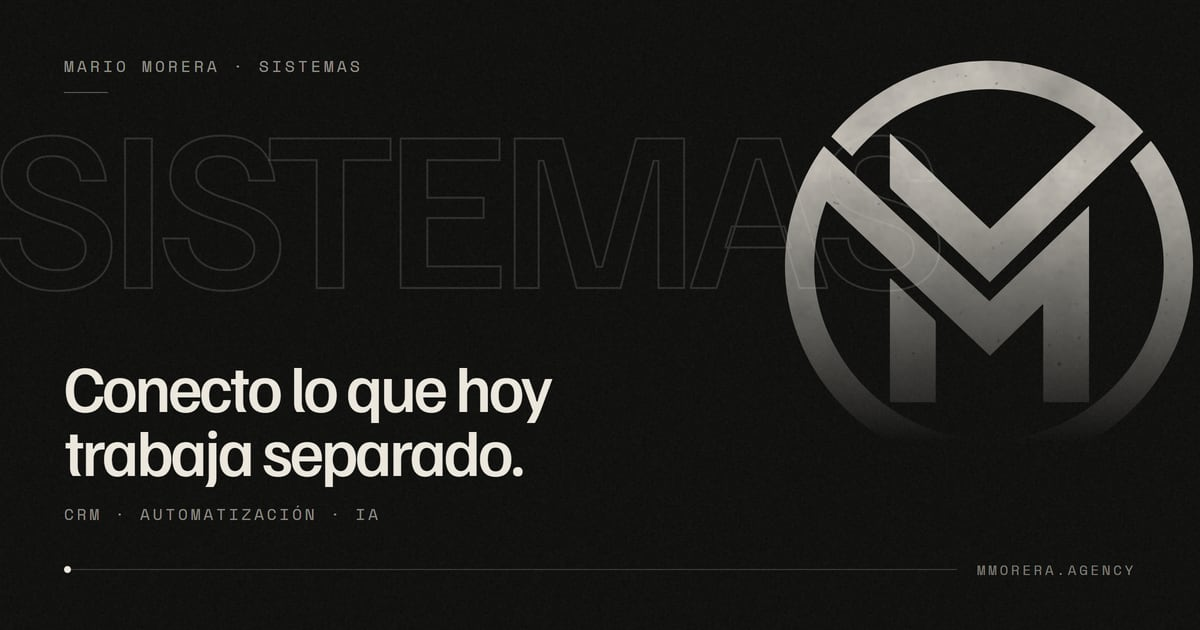
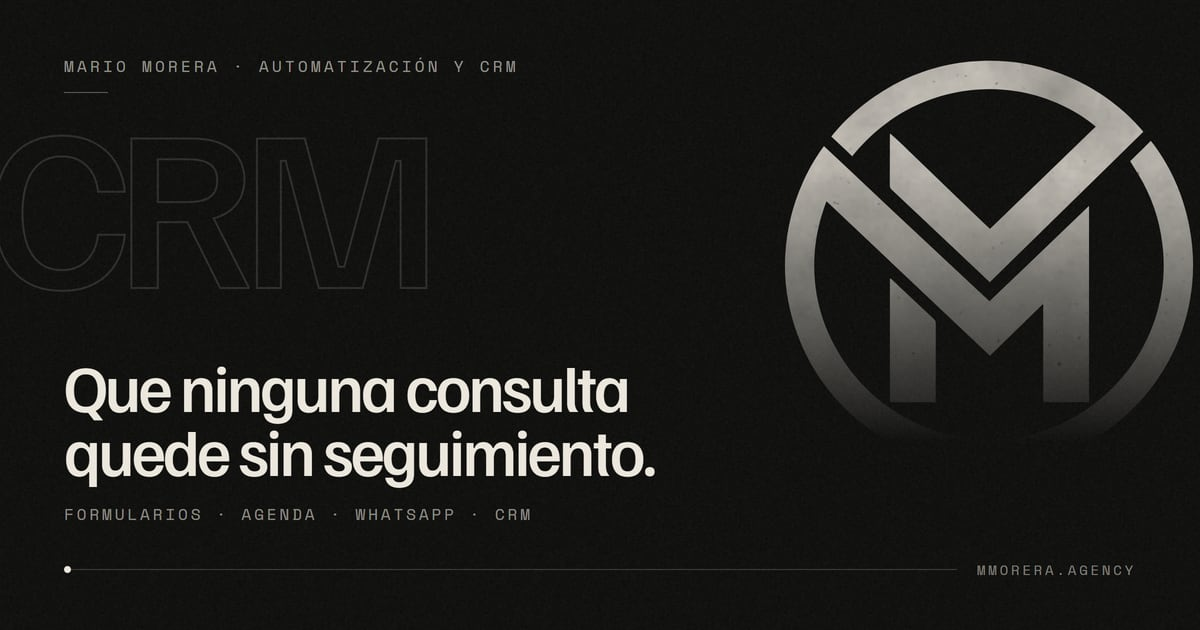
feat(triada): integra 3, datos de las páginas de servicio y limpieza
- Integra T35 (e2e 51/51), T36 (componentes retirados) y T26 (plantilla).
- src/data/servicePages.ts: SERVICE_PAGES.sistemas y .estudio con los textos
  del brief T27, con su test (casos existentes, sin TODO ni textos vacíos).
- paginas.ts: títulos, descripciones y portadas de /sistemas («Automatización
  y CRM») y /estudio («Webs y landings»); portadas regeneradas.
- Fuera WORKFLOW_STAGES y el e2e de Safari de la película retirada.

diff --git a/web/src/data/servicePages.ts b/web/src/data/servicePages.ts
@@ -1,0 +1,126 @@
+import type { LocalizedText } from "@/types/site";
+import type { ServicePageContent } from "@/types/servicePage";
+
+const t = (es: string, en: string): LocalizedText => ({ es, en });
+
+/**
+ * Textos de las páginas de servicio (brief docs/triada/briefs/T27-servicios.md).
+ * Secuencia común: qué resuelve → para quién → cómo funciona → prueba →
+ * cómo se contrata → hablemos. Lo interactivo (films) entra como slot.
+ */
+
+/** Los mismos 3 pasos del tramo «Cómo trabajo» del home (brief T20 §4). */
+const HIRING: ServicePageContent["hiring"] = {
+  title: t("Cómo trabajamos", "How we work"),
+  steps: [
+    {
+      title: t("Diagnóstico", "Diagnosis"),
+      body: t(
+        "Entiendo cómo trabajas hoy y dónde se pierde tiempo. Acordamos qué conviene construir primero, y qué no.",
+        "I learn how you work today and where time gets lost. We agree on what to build first, and what not to."
+      ),
+    },
+    {
+      title: t("Construcción", "Build"),
+      body: t(
+        "Diseño, programo y conecto las piezas. Ves avances reales durante el trabajo.",
+        "I design, build and connect the pieces. You see real progress along the way."
+      ),
+    },
+    {
+      title: t("Traspaso y mantenimiento", "Handover and maintenance"),
+      body: t(
+        "Te dejo el sistema funcionando, con las cuentas a tu nombre. Si quieres, sigo a cargo del mantenimiento.",
+        "I hand over a working system, with accounts in your name. If you want, I stay on for maintenance."
+      ),
+    },
+  ],
+  price: t("El alcance y el precio se definen después del diagnóstico.", "Scope and price are set after the diagnosis."),
+};
+
+const AUDIENCE_TITLE = t("Para quién es", "Who it's for");
+
+export const SERVICE_PAGES = {
+  /** /sistemas → «Automatización y CRM». El film de apertura trae su propio título. */
+  sistemas: {
+    hero: {
+      eyebrow: t("Automatización y CRM", "Automation & CRM"),
+      title: t("Que ninguna consulta quede sin seguimiento.", "So no enquiry goes without follow-up."),
+      body: t(
+        "Conecto tus formularios, tu agenda, WhatsApp y tu CRM para que cada consulta entre ordenada, le llegue a quien corresponde y el seguimiento salga solo.",
+        "I connect your forms, calendar, WhatsApp and CRM so every enquiry comes in organized, reaches the right person and the follow-up goes out on its own."
+      ),
+      cta: { label: t("Hablemos de tu proceso", "Let's talk about your process") },
+    },
+    audience: {
+      title: AUDIENCE_TITLE,
+      for: t(
+        "Negocios que reciben consultas por varios canales y hoy las ordenan a mano.",
+        "Businesses that get enquiries across several channels and sort them by hand today."
+      ),
+      notFor: t(
+        "Si recibes pocas consultas por semana y las respondes sin problema, todavía no lo necesitas.",
+        "If you get a few enquiries a week and answer them easily, you don't need this yet."
+      ),
+    },
+    tools: t(
+      "Con n8n, Make o GoHighLevel según tu proceso, o una herramienta a medida si el flujo es liviano.",
+      "With n8n, Make or GoHighLevel depending on your process, or a custom tool when the flow is light."
+    ),
+    proof: {
+      title: t("Sistemas que ya construí", "Systems I've already built"),
+      slugs: ["rangel-oviedo-group", "lb-elite-wash-detail", "new-brothers-barberia"],
+    },
+    hiring: HIRING,
+    closing: {
+      title: t(
+        "El sistema correcto se nota porque el trabajo deja de romperse entre herramientas.",
+        "The right system shows when work stops breaking between tools."
+      ),
+      cta: { label: t("Hablemos de tu caso", "Let's talk about your case") },
+    },
+  },
+  /** /estudio → «Webs y landings». El slot muestra films de casos de web. */
+  estudio: {
+    hero: {
+      eyebrow: t("Webs y landings", "Websites & landing pages"),
+      title: t("Una web que explica lo que haces y hace que te escriban.", "A website that explains what you do and gets people to reach out."),
+      body: t(
+        "Diseño y programo sitios y landings a medida: claros, rápidos en el teléfono, en dos idiomas si hace falta y fáciles de actualizar. Lo diseño y lo programo yo.",
+        "I design and build custom websites and landing pages: clear, fast on the phone, bilingual when needed and easy to update. I design it and I build it."
+      ),
+      cta: { label: t("Hablemos de tu web", "Let's talk about your website") },
+    },
+    audience: {
+      title: AUDIENCE_TITLE,
+      for: t(
+        "Negocios que reciben consultas y pierden ventas porque su web no explica lo que hacen.",
+        "Businesses that get enquiries but lose sales because their site doesn't explain what they do."
+      ),
+      notFor: t(
+        "Si tu web ya funciona y solo quieres cambiar textos, no hace falta rehacerla.",
+        "If your site already works and you only want to change the copy, there's no need to rebuild it."
+      ),
+    },
+    tools: t(
+      "Con Next.js, TypeScript y Tailwind, y un CMS cuando necesitas actualizar el contenido.",
+      "With Next.js, TypeScript and Tailwind, plus a CMS when you need to update content."
+    ),
+    howItWorks: {
+      title: t("Cada caso, contado como un film", "Each case, told as a film"),
+      body: t(
+        "El sitio real de cada cliente y cómo se resolvió, en poco más de un minuto.",
+        "Each client's live site and how it was solved, in just over a minute."
+      ),
+    },
+    proof: {
+      title: t("Webs que ya construí", "Websites I've already built"),
+      slugs: ["lb-elite-wash-detail", "mr-studio-tattoo", "truckers-choice", "fenix-medical-center"],
+    },
+    hiring: HIRING,
+    closing: {
+      title: t("¿Tu web explica bien lo que haces?", "Does your website explain what you do?"),
+      cta: { label: t("Hablemos de tu web", "Let's talk about your website") },
+    },
+  },
+} satisfies Record<"sistemas" | "estudio", ServicePageContent>;

diff --git a/web/src/data/seo/paginas.ts b/web/src/data/seo/paginas.ts
@@ -58,19 +58,19 @@ export const PAGINAS_SEO: Record<PaginaSeo, PaginaSeoData> = {
   },
   sistemas: {
     path: "/sistemas",
-    title: { es: "CRM, automatización e IA para negocios", en: "CRM, automation and AI for businesses" },
+    title: { es: "Automatización y CRM para negocios", en: "Automation & CRM for businesses" },
     description: {
-      es: "CRM, automatización de procesos e IA aplicada dentro de un flujo que tu equipo puede ver y usar: captación, seguimiento y atención, conectados.",
-      en: "CRM, process automation and applied AI inside a flow your team can see and use: lead capture, follow-up and support, connected.",
+      es: "Conecto formularios, agenda, WhatsApp y CRM para que cada consulta entre ordenada, le llegue a quien corresponde y el seguimiento salga solo.",
+      en: "I connect forms, calendar, WhatsApp and CRM so every enquiry comes in organized, reaches the right person and the follow-up goes out on its own.",
     },
     portada: "sistemas",
   },
   estudio: {
     path: "/estudio",
-    title: { es: "Diseño web, motion y dirección de arte", en: "Web design, motion and art direction" },
+    title: { es: "Webs y landings a medida", en: "Custom websites & landing pages" },
     description: {
-      es: "Dirección de arte, diseño web, motion y desarrollo frontend: experiencias donde la forma, la interacción y el código responden a la misma intención.",
-      en: "Art direction, web design, motion and frontend development: experiences where form, interaction and code answer to the same intent.",
+      es: "Diseño y programo sitios y landings a medida: claros, rápidos en el teléfono, en dos idiomas si hace falta y fáciles de actualizar.",
+      en: "I design and build custom websites and landing pages: clear, fast on the phone, bilingual when needed and easy to update.",
     },
     portada: "estudio",
   },
@@ -111,16 +111,16 @@ export const PORTADAS_OG: Record<PaginaSeoData["portada"], PortadaOg> = {
     servicios: { es: "Casos · Demos · Implementaciones", en: "Cases · Demos · Implementations" },
   },
   sistemas: {
-    eco: { es: "Sistemas", en: "Systems" },
-    rotulo: { es: "Mario Morera · Sistemas", en: "Mario Morera · Systems" },
-    titular: { es: "Conecto lo que hoy trabaja separado.", en: "I connect what works separately today." },
-    servicios: { es: "CRM · Automatización · IA", en: "CRM · Automation · AI" },
+    eco: { es: "CRM", en: "CRM" },
+    rotulo: { es: "Mario Morera · Automatización y CRM", en: "Mario Morera · Automation & CRM" },
+    titular: { es: "Que ninguna consulta quede sin seguimiento.", en: "So no enquiry goes without follow-up." },
+    servicios: { es: "Formularios · Agenda · WhatsApp · CRM", en: "Forms · Calendar · WhatsApp · CRM" },
   },
   estudio: {
-    eco: { es: "Estudio", en: "Studio" },
-    rotulo: { es: "Mario Morera · Estudio", en: "Mario Morera · Studio" },
-    titular: { es: "La tecnología también puede tener pulso.", en: "Technology can have a pulse, too." },
-    servicios: { es: "Diseño · Motion · Código", en: "Design · Motion · Code" },
+    eco: { es: "Webs", en: "Websites" },
+    rotulo: { es: "Mario Morera · Webs y landings", en: "Mario Morera · Websites & landing pages" },
+    titular: { es: "Una web que explica lo que haces y hace que te escriban.", en: "A website that explains what you do and gets people to reach out." },
+    servicios: { es: "Diseño · Desarrollo · Dos idiomas", en: "Design · Development · Bilingual" },
   },
   hablemos: {
     eco: { es: "Hablemos", en: "Let’s talk" },

diff --git a/web/src/data/solutionsData.ts b/web/src/data/solutionsData.ts
@@ -248,41 +248,3 @@ export const DECISION_TOPICS: DecisionTopic[] = [
   },
 ];
 
-export const WORKFLOW_STAGES = [
-  {
-    step: "01",
-    title: t("Diagnóstico & Criterio", "Diagnosis & Strategic Alignment"),
-    description: t(
-      "Analizamos tu flujo actual, detectamos cuellos de botella y definimos el alcance exacto sin humo.",
-      "We analyze your current flow, isolate bottlenecks, and define the exact scope without hype."
-    ),
-    badge: t("Sin Compromiso", "No Commitment"),
-  },
-  {
-    step: "02",
-    title: t("Dirección de Arte & Arquitectura", "Art Direction & Architecture"),
-    description: t(
-      "Estructura visual, experiencia de usuario y arquitectura técnica creadas a medida de tu negocio.",
-      "Tailored visual hierarchy, user journey, and technical architecture designed for conversions."
-    ),
-    badge: t("Diseño a Medida", "Custom Design"),
-  },
-  {
-    step: "03",
-    title: t("Construcción en Producción (Next.js)", "Production Build (Next.js)"),
-    description: t(
-      "Desarrollo en Next.js 16 y automatizaciones conectadas en sprints ágiles de 1 a 3 semanas.",
-      "Next.js 16 build and connected automations shipped in agile 1-3 week sprints."
-    ),
-    badge: t("Velocidad Extrema", "Extreme Speed"),
-  },
-  {
-    step: "04",
-    title: t("Despliegue & Operación Continua", "Deployment & Active Operations"),
-    description: t(
-      "Despliegue en producción con monitoreo en vivo y comunicación directa por WhatsApp sin intermediarios.",
-      "Live production launch with real-time telemetry and direct WhatsApp communication."
-    ),
-    badge: t("Acompañamiento Real", "Real Support"),
-  },
-];

diff --git a/web/src/data/servicePages.test.ts b/web/src/data/servicePages.test.ts
@@ -1,0 +1,17 @@
+import { describe, it } from "node:test";
+import assert from "node:assert/strict";
+import { SERVICE_PAGES } from "./servicePages";
+import { getProjectCase } from "./projectCases";
+
+describe("páginas de servicio", () => {
+  it("cada caso de prueba existe y cada texto tiene sus dos idiomas", () => {
+    for (const [page, content] of Object.entries(SERVICE_PAGES)) {
+      for (const slug of content.proof?.slugs ?? []) {
+        assert.ok(getProjectCase(slug), `${page} apunta a un caso inexistente: ${slug}`);
+      }
+      const texts = JSON.stringify(content);
+      assert.doesNotMatch(texts, /"es":""|"en":""/, `${page} tiene un texto vacío`);
+      assert.doesNotMatch(texts, /TODO/, `${page} conserva un TODO`);
+    }
+  });
+});

diff --git a/web/playwright.config.ts b/web/playwright.config.ts
@@ -20,14 +20,8 @@ export default defineConfig({
   projects: [
     {
       name: "chromium",
-      testIgnore: ["**/._*", "**/*.webkit.spec.ts"],
-      use: { ...devices["Desktop Chrome"] },
-    },
-    {
-      name: "webkit-mobile-film",
-      testMatch: "**/*.webkit.spec.ts",
       testIgnore: "**/._*",
-      use: { ...devices["iPhone 13"] },
+      use: { ...devices["Desktop Chrome"] },
     },
   ],
   webServer: externalBaseUrl

diff --git a/web/docs/triada/TABLERO.md b/web/docs/triada/TABLERO.md
@@ -85,8 +85,8 @@ Calidad común: ES y EN, 390 px sin desborde, teclado, `prefers-reduced-motion` 
 
 | ID | Tarea | Dueño | Apoyo | Archivos permitidos | Listo cuando | Depende | Estado |
 |---|---|---|---|---|---|---|---|
-| **T26** | **Plantilla de página de servicio.** Secciones: qué resuelve, para quién (y para quién no), cómo funciona (momento o film), prueba (casos con «Pruébalo»), cómo se contrata (diagnóstico → instalación → mantenimiento) y contacto | **Codex** | Claude define los datos | `src/components/service/ServicePage.tsx` (nuevo) y su test. Los datos van en `src/data/servicePages.ts` (Claude) | La usan T07, T08 y T27. Sin precios hasta D2. Cada sección se puede omitir por datos | T20 | para revisar |
-| **T27** | **`/sistemas` como «Automatización y CRM» y `/estudio` como «Webs y landings»**, con la plantilla. En `/sistemas`, el film de apertura se acorta. En `/estudio` sale la órbita y el estudio de tokens pasa al Lab | **Claude**, textos → **Codex** | Gemini, la crítica cruzada | `SystemsExperience.tsx`, `StudioExperience.tsx`, `films/ScrollFilm.tsx` (solo el largo del tramo), `app/sistemas/**`, `app/estudio/**` y sus pares `en`. Claude: `src/data/servicePages.ts` | Cada página dice en su primera pantalla qué se contrata y para quién. El film de apertura mide 2.500 px o menos. La bandeja omnicanal se va o espera a T32. Las URLs no cambian (D10) | T25, T26, D10 | bloqueada (T25, T26) |
+| **T26** | **Plantilla de página de servicio.** Secciones: qué resuelve, para quién (y para quién no), cómo funciona (momento o film), prueba (casos con «Pruébalo»), cómo se contrata (diagnóstico → instalación → mantenimiento) y contacto | **Codex** | Claude define los datos | `src/components/service/ServicePage.tsx` (nuevo) y su test. Los datos van en `src/data/servicePages.ts` (Claude) | La usan T07, T08 y T27. Sin precios hasta D2. Cada sección se puede omitir por datos | T20 | **integrada** · [entregas/T26.md](entregas/T26.md). Plantilla `ServicePage` y `TryItButtons` compartido |
+| **T27** | **`/sistemas` como «Automatización y CRM» y `/estudio` como «Webs y landings»**, con la plantilla. En `/sistemas`, el film de apertura se acorta. En `/estudio` sale la órbita y el estudio de tokens pasa al Lab | **Claude**, textos → **Codex** | Gemini, la crítica cruzada | `SystemsExperience.tsx`, `StudioExperience.tsx`, `films/ScrollFilm.tsx` (solo el largo del tramo), `app/sistemas/**`, `app/estudio/**` y sus pares `en`. Claude: `src/data/servicePages.ts` | Cada página dice en su primera pantalla qué se contrata y para quién. El film de apertura mide 2.500 px o menos. La bandeja omnicanal se va o espera a T32. Las URLs no cambian (D10) | T25, T26, D10 | en curso · Codex · datos listos en `src/data/servicePages.ts` (`SERVICE_PAGES.sistemas` y `.estudio`) y SEO y portadas en `paginas.ts` |
 | **T28** | **Verificar las rutas «Pruébalo»** de los 3 casos de portada: que abran sin cuenta propia, que no muestren datos reales de clientes y qué ve el visitante. Confirmar si `/cuadrilla` pide token | **Gemini** | — | `docs/triada/gemini/T28-pruebalo.md` y capturas en `docs/triada/gemini/T28/` | Cada ruta tiene URL, captura y la marca «abre», «Demo» o «no usar» | T03 ✓ | **integrada** · [entregas/T28.md](entregas/T28.md). Rutas cargadas en `projectCases.ts` (`tryIt`). `/cuadrilla` queda fuera: pide token |
 | **T29** | **Página de caso en tres niveles:** «Pruébalo tú» arriba, después el film y al final «Bajo el capó» plegado con «Ver arquitectura» (M4) | **Codex** | Claude: el campo `tryIt` en `projectCases.ts` | `premium/CaseStudy.tsx`, `premium/UnderTheHood.tsx` (solo el plegado) | Los 3 casos de portada tienen «Pruébalo» con rutas de T28; los demás muestran la sección solo si hay datos. «Ver arquitectura» es un disclosure accesible con `aria-expanded`. Con movimiento reducido, se despliega sin animación | T19, T28 | **integrada** · [entregas/T29.md](entregas/T29.md). «Ver arquitectura» plegado en los casos con diagrama |
 | **T30** | **Contacto revelado:** primero los dos caminos; el brief se abre al elegir «proyecto»; «puesto» ofrece «Ver CV» y «Copiar correo» | **Codex** | Claude, textos (T20) | `HomeExperience.tsx` (solo `#contacto`), `AplicarOS.tsx` (solo la opción «agencia», si Claude la pide) | Ningún camino depende solo de `mailto:`. El brief no ocupa el home hasta que alguien lo pide. El foco va al primer campo al abrirlo | T19, T20, T06 | **integrada** · [entregas/T30.md](entregas/T30.md). «Ver CV» aparece cuando exista T06 |
@@ -104,8 +104,8 @@ Calidad común: ES y EN, 390 px sin desborde, teclado, `prefers-reduced-motion` 
 | ID | Tarea | Dueño | Apoyo | Archivos permitidos | Listo cuando | Depende | Estado |
 |---|---|---|---|---|---|---|---|
 | **T34** | **Prueba de 5 segundos y de recorrido con personas reales**, antes y después de la Fase A: 2 dueños de negocio, 1 reclutador o empresa y 1 colega o agencia. Preguntas: qué hace Mario, para quién y qué harías ahora | **Gemini** arma el guion y junta las respuestas | **Mario** consigue a las personas | `docs/triada/gemini/T34-prueba.md` | Hay respuestas textuales por audiencia y una lista de lo que no se entendió. Es la única evidencia de comportamiento mientras no haya analítica (D12) | Fase A en la preview | en curso · materiales listos, Mario entrevista ([entregas/T34.md](entregas/T34.md)) |
-| **T35** | **e2e del recorrido nuevo:** reemplazar los 12 tests de contratos retirados (menú viejo, película del perfil, manifiesto, entrada del monograma) por los del recorrido nuevo | **Codex** | — | `e2e/site.spec.ts` | La suite completa en verde contra `next start`, sin `skip` nuevos | integra 2 | para revisar |
-| **T36** | **Limpieza de lo retirado:** borrar `AuthorManifestoScene`, `LogoOvertureSection`, `WorkflowSection` y `ProjectIndex` (sin importadores). Claude borra `WORKFLOW_STAGES` | **Codex** | Claude | esos 4 componentes | Lint, tests y build en verde; el home ya no los incluye | T35 | pendiente · Codex |
+| **T35** | **e2e del recorrido nuevo:** reemplazar los 12 tests de contratos retirados (menú viejo, película del perfil, manifiesto, entrada del monograma) por los del recorrido nuevo | **Codex** | — | `e2e/site.spec.ts` | La suite completa en verde contra `next start`, sin `skip` nuevos | integra 2 | **integrada** · [entregas/T35.md](entregas/T35.md). e2e 51/51; Claude retiró `personal-film.webkit.spec.ts` y su proyecto de Playwright (la película ya no existe) |
+| **T36** | **Limpieza de lo retirado:** borrar `AuthorManifestoScene`, `LogoOvertureSection`, `WorkflowSection` y `ProjectIndex` (sin importadores). Claude borra `WORKFLOW_STAGES` | **Codex** | Claude | esos 4 componentes | Lint, tests y build en verde; el home ya no los incluye | T35 | **integrada** · [entregas/T36.md](entregas/T36.md). Claude borró `WORKFLOW_STAGES` |
 | **T37** | **Ajustes de la crítica de Gemini:** la misma cápsula «Hablemos» en todo el sitio (reemplaza `WhatsAppFab` en páginas internas), cápsula más alta en el teléfono, «Live» → «En vivo» y consigna del héroe solo con hover | **Codex** | — | `IslandBar.tsx`, `WhatsAppFab.tsx`, `ServicesSection.tsx`, `HomeExperience.tsx` (solo la consigna) | Un solo patrón en todas las páginas; no tapa texto a 390 px | — | pendiente · Codex |
 | **T38** | **Verificar más rutas «Pruébalo»:** Mr. Studio Tattoo (reserva guiada), Truckers Choice (cotización en 3 pasos) y Rangel Oviedo (diagnóstico por perfiles), con el mismo método que T28. Y una crítica en frío de la versión actual | **Gemini** | Claude carga los datos | `docs/triada/gemini/T38-*` | Cada ruta marcada «abre», «Demo» o «no usar»; la crítica sobre el home de 7.191 px | — | **integrada** · [entregas/T38.md](entregas/T38.md). Rutas de Mr. Studio (`/booking`), Truckers (`/es/contact` y `/en/contact`) y Rangel (`#perfiles`) cargadas en `tryIt`; las páginas de caso las muestran solas (T29). Crítica de la versión actual en [gemini/critica-integra-2.md](gemini/critica-integra-2.md) |
 | **T39** | **Compactar «¿Qué necesitas resolver?»** (hallazgo de la crítica de integra 2: 3.282 px, el 46 % del home). Cada servicio queda con etiqueta, título, `headline`, «Para quién» en una línea y «Ver cómo funciona →». Los 3 entregables pasan a la página del servicio; **en Agentes y Contenido se quedan** hasta que existan `/agentes` y `/fabricas`. El escenario con el reel se queda en escritorio | **Codex** | Claude revisa | `home/ServicesSection.tsx` | El tramo mide 1.800 px o menos a 1440 px y 2.600 px o menos a 390 px; ES y EN; teclado y movimiento reducido | T27 | pendiente · Codex |
